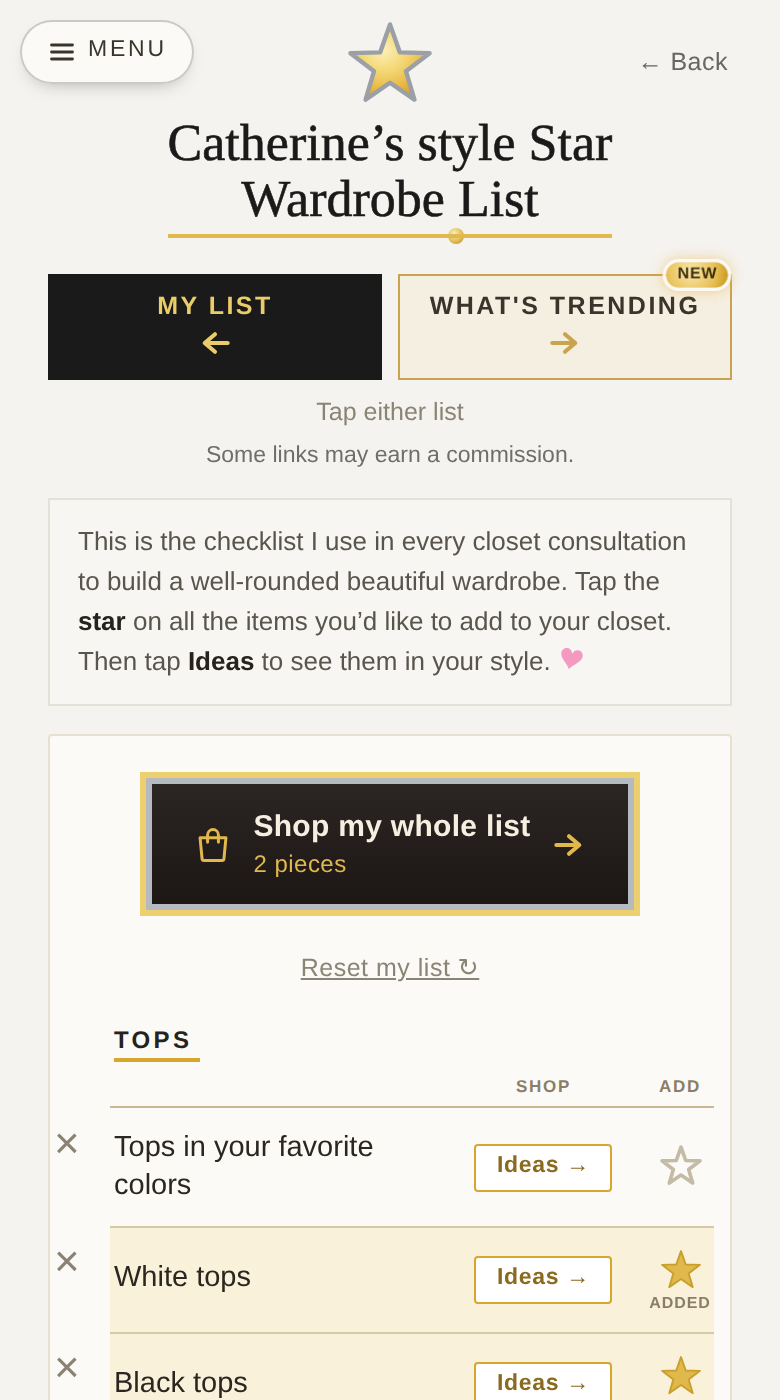
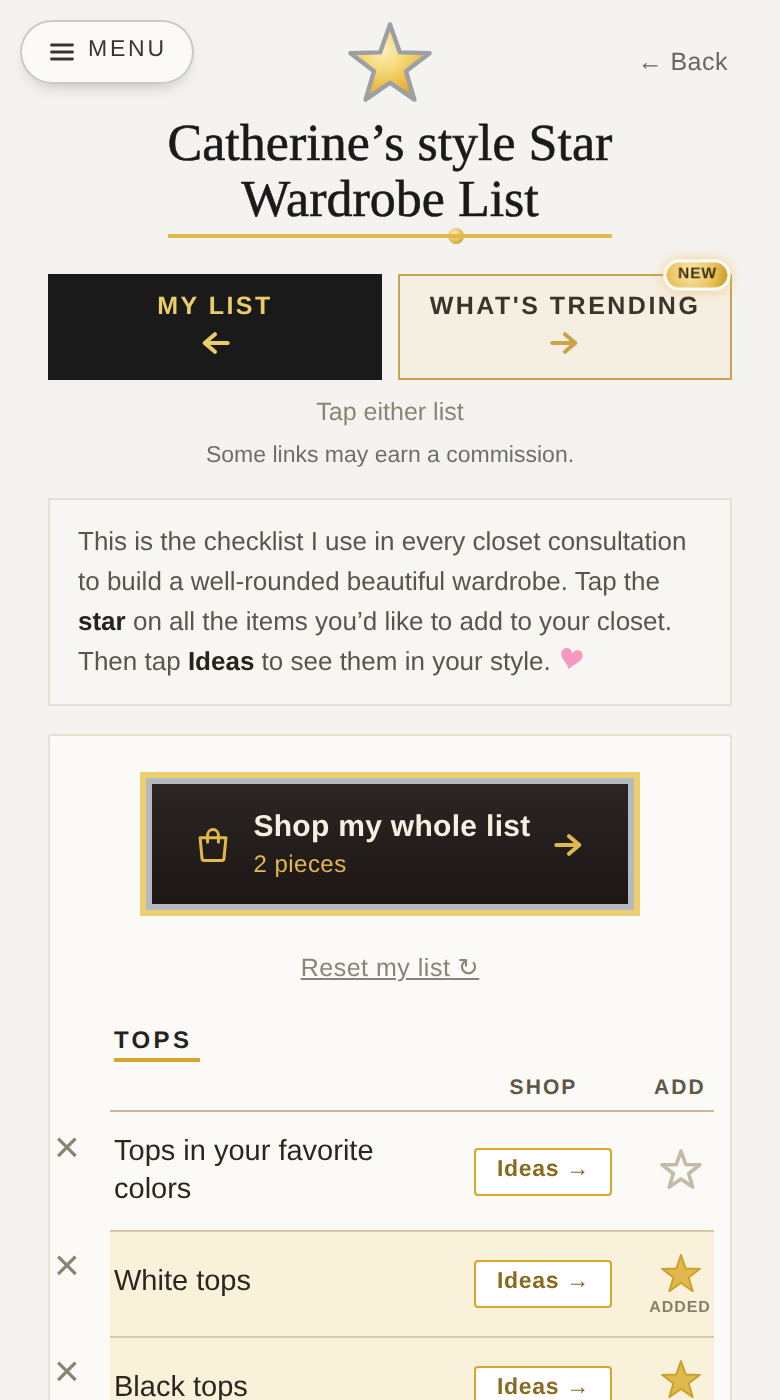
The worksheet's column labels become readable (#824)
Two of her catches on the live page, 2026-08-11.

1. 🚨 "CAN WE MAKE THE SHOP AND ADD LARGER AND DARKER? HARD TO SEE" -- AND THEY
   WERE BELOW THE AA BAR, not merely small. 8.5px #8a7f66 measures 3.79:1 on the
   paper. ▶ THE SAME FAILURE SHE FOUND IN THE MENU'S GROUP LABELS on 2026-08-09,
   which were the only sub-AA text in that drawer: a label small enough to feel
   like decoration stops being read. Now 10.5px #5f5647 = 6.92:1.
   ⚠ These two words are the ONLY thing on the page that tells her what the two
   controls DO. For an 18-80 audience they are the last text that should be hard
   to read. Don't re-quieten them; the suite now pins both the size and the
   contrast measured against the real painted background.
   ⚠ Alignment survives: SHOP and ADD are still centred exactly over the chip
   and the star at 390/375/360/320 (0.0px off), and ADD's larger text is 25.9px
   inside its 30px box.

2. "Shop them all together, in your style." is ONE LINE now. ▶ It was not
   wrapping -- the break was a HARDCODED <br> in the markup, so no amount of
   width would ever have fixed it. Removed, and it needs 226.5px against a
   272-300px container, so it holds one line at every width down to 320 with
   45px to spare. The test asserts the <br> cannot come back.

Verified: wdrworksheet 53 -> 69 checks.

diff --git a/scratchpad/wdrworksheet.js b/scratchpad/wdrworksheet.js
@@ -37,6 +37,16 @@ for (const w of [390, 375, 360, 320]) {
     const shop = head.querySelector('.ch-shop').getBoundingClientRect();
     const add = head.querySelector('.ch-add').getBoundingClientRect();
     const cs = getComputedStyle(head);
+    const lblCs = getComputedStyle(head.querySelector('.ch-shop'));
+    // contrast of the labels against the paper they actually sit on
+    const lum = c => { const [r, g, b] = c.match(/\d+/g).map(Number);
+      const f = v => { v /= 255; return v <= 0.03928 ? v / 12.92 : ((v + 0.055) / 1.055) ** 2.4; };
+      return 0.2126 * f(r) + 0.7152 * f(g) + 0.0722 * f(b); };
+    const cr = (a, b) => { const [x, y] = [lum(a), lum(b)].sort((p, q) => q - p); return (x + 0.05) / (y + 0.05); };
+    const sub = document.querySelector('#s-wardrobe .wse-sub');
+    let subLines = null;
+    if (sub) { const rg = document.createRange(); rg.selectNodeContents(sub);
+      subLines = new Set([...rg.getClientRects()].map(x => Math.round(x.top))).size; }
     const starred = document.querySelector('#s-wardrobe .wdr-item.want');
     const names = [...document.querySelectorAll('#s-wardrobe .wdr-name')].map(e => {
       const rg = document.createRange(); rg.selectNodeContents(e);
@@ -52,6 +62,8 @@ for (const w of [390, 375, 360, 320]) {
       plainHasAdded: !!document.querySelector('#s-wardrobe .wdr-item:not(.want) .wdr-added'),
       divider: getComputedStyle(row).borderBottomColor,
       wraps: names.filter(n => n > 1).length, rows: names.length,
+      lblSize: parseFloat(lblCs.fontSize), lblContrast: +cr(lblCs.color, cs.backgroundColor).toFixed(2),
+      subLines, subHasBr: !!(sub && sub.querySelector('br')),
       docW: document.documentElement.scrollWidth, vw: innerWidth, cats: document.querySelectorAll('#s-wardrobe .wdr-cathead').length
     };
   });
@@ -78,6 +90,14 @@ for (const w of [390, 375, 360, 320]) {
   // and NO text was shrunk to buy it.
   const wrapCap = w >= 375 ? 3 : (w >= 360 ? 4 : 15);
   ok(m.wraps <= wrapCap, `name wrapping stays contained (${m.wraps} of ${m.rows}, cap ${wrapCap})`);
+  // ⚠ her catch: the labels were 8.5px at 3.79:1, BELOW the AA bar -- the same
+  // failure as the Menu's group labels. They are the only thing telling her what
+  // the two controls do, so they must stay readable. Don't re-quieten them.
+  ok(m.lblSize >= 10, `the column labels are readable at ${m.lblSize}px (were 8.5)`);
+  ok(m.lblContrast >= 4.5, `and clear AA on the real paper (${m.lblContrast}:1, was 3.79)`);
+  // her ask: the closing line reads as one sentence, not two
+  ok(m.subLines === 1, `"Shop them all together, in your style." holds one line (${m.subLines})`);
+  ok(!m.subHasBr, 'the hardcoded <br> is gone, so it can never re-split');
   ok(m.docW <= m.vw, `no sideways scroll (${m.docW} vs ${m.vw})`);
   ok(!errs.length, 'zero JS errors');
 

diff --git a/index.html b/index.html
@@ -507,7 +507,13 @@ html.edit-velvet,html.edit-velvet body{background:#0E7F8C}
    to the every-row version). It also labels "Ideas", which had never been
    explained at all. Rendered by _wdrCatHead(). */
 #s-wardrobe .wdr-colhead{display:flex;align-items:center;justify-content:flex-end;gap:0 9px;padding:0 2px 5px;border-bottom:1.5px solid #C9B893;margin-bottom:2px}
-#s-wardrobe .wdr-colhead span{font:700 8.5px/1 'Jost',sans-serif;letter-spacing:.1em;text-transform:uppercase;color:#8a7f66}
+/* ⚠ HER CATCH ("hard to see"), and it was BELOW THE AA BAR, not merely small:
+   8.5px #8a7f66 measures 3.79:1 on the paper -- the same failure she found in
+   the Menu's group labels on 2026-08-09, which were the only sub-AA text in the
+   drawer. 10.5px #5f5647 is 6.92:1. ⚠ These are the only labels on the page
+   telling her what the two controls DO, so they are the last thing that should
+   be hard to read for an 18-80 audience. Don't re-quieten them. */
+#s-wardrobe .wdr-colhead span{font:700 10.5px/1 'Jost',sans-serif;letter-spacing:.1em;text-transform:uppercase;color:#5f5647}
 /* ⚠ HER CATCH, and these numbers are LOAD-BEARING: the heading only reads as a
    heading if it sits directly over its column. SHOP must match the Ideas chip's
    width AND carry the chip's own 10px right margin, or it drifts right of the
@@ -6812,7 +6818,7 @@ function _wdrRenderShopEnd(n){
   if(n){
     html+='<div class="wdr-shopend">'
       +'<div class="wse-lead">That&rsquo;s '+n+' piece'+(n>1?'s':'')+' on your list</div>'
-      +'<div class="wse-sub">Shop them all together,<br>in your style.</div>'
+      +'<div class="wse-sub">Shop them all together, in your style.</div>'
       +'<div class="wdr-shopwrap">'+_wdrShopBtn(n)+'</div></div>';
   }
   // Reset sits below the shop CTA, so the list card can end cleanly on the
